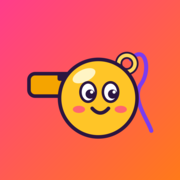
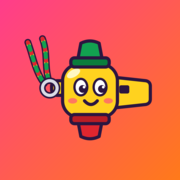
Apito als Dreiton-Sambapfeife
Gelber Körper mit Mundstück, grüne und rote Kammer, Ring mit
geflochtener Kordel in Rot, Grün und Gelb. Icons neu erzeugt.

Changed region(s): [[0.1111, 0.1944, 0.8611, 0.8056]]

diff --git a/src/components/Mascot.svelte b/src/components/Mascot.svelte
@@ -1,5 +1,5 @@
 <script lang="ts">
-  /** Apito, das Maskottchen: eine Sambapfeife mit Gesicht. */
+  /** Apito, das Maskottchen: eine Dreiton-Sambapfeife mit Gesicht. */
   let {
     mood = 'happy',
     size = '4rem',
@@ -7,56 +7,66 @@
   }: { mood?: 'happy' | 'wink' | 'blow'; size?: string; bounce?: boolean } = $props()
 
   const ink = '#2b1640'
+  const yellow = '#ffd21f'
+  const strands = ['M20 49 C 10 36, 8 20, 2 4', 'M25 46 C 20 30, 24 16, 18 0']
 </script>
 
-<svg
-  class="apito"
-  class:bounce
-  style="width: {size}"
-  viewBox="0 0 128 104"
-  role="img"
-  aria-label="Apito"
->
-  <!-- Kordel -->
-  <path d="M106 20 C 120 4, 126 30, 116 44 S 122 78, 126 90" fill="none" stroke="#ff3d8b" stroke-width="4" stroke-linecap="round" />
-  <!-- Ring -->
-  <circle cx="102" cy="24" r="8" fill="none" stroke={ink} stroke-width="7" />
-  <circle cx="102" cy="24" r="8" fill="none" stroke="#ffd95e" stroke-width="3.5" />
-  <!-- Mundstück -->
-  <rect x="6" y="34" width="56" height="22" rx="6" fill="#f5a400" stroke={ink} stroke-width="3.5" />
-  <rect x="34" y="34" width="12" height="7" rx="2" fill={ink} />
-  <!-- Körper -->
-  <circle cx="74" cy="58" r="38" fill="#ffc527" stroke={ink} stroke-width="3.5" />
-  <ellipse cx="60" cy="36" rx="12" ry="6" fill="#fff4c4" transform="rotate(-25 60 36)" />
-
-  <!-- Augen -->
-  {#if mood === 'wink'}
-    <path d="M57 54 q 7 -7 14 0" fill="none" stroke={ink} stroke-width="3.5" stroke-linecap="round" />
-  {:else}
-    <ellipse cx="64" cy="52" rx="7.5" ry="9.5" fill="white" stroke={ink} stroke-width="2.5" />
-    <circle cx="66" cy="54" r="4.5" fill={ink} />
-    <circle cx="67.5" cy="52" r="1.6" fill="white" />
-  {/if}
-  <ellipse cx="86" cy="52" rx="7.5" ry="9.5" fill="white" stroke={ink} stroke-width="2.5" />
-  <circle cx="88" cy="54" r="4.5" fill={ink} />
-  <circle cx="89.5" cy="52" r="1.6" fill="white" />
-
-  <!-- Bäckchen -->
-  <ellipse cx="55" cy="69" rx="6" ry="3.5" fill="#ff3d8b" opacity="0.55" />
-  <ellipse cx="96" cy="69" rx="6" ry="3.5" fill="#ff3d8b" opacity="0.55" />
-
-  <!-- Mund -->
-  {#if mood === 'blow'}
-    <ellipse cx="76" cy="72" rx="4.5" ry="5.5" fill={ink} />
-    <!-- Pfiff aus der Öffnung -->
-    <g fill="none" stroke="#ff3d8b" stroke-width="3.5" stroke-linecap="round" class="sound">
-      <path d="M36 26 q -3 -8 2 -14" />
-      <path d="M45 24 q 0 -10 7 -16" />
-      <path d="M27 28 q -6 -6 -4 -14" />
+<svg class="apito" class:bounce style="width: {size}" viewBox="-2 -4 142 118" role="img" aria-label="Apito">
+  <g stroke-linejoin="round">
+    <!-- geflochtene Kordel in Rot, Grün, Gelb -->
+    <g fill="none">
+      {#each strands as d, i}
+        <path {d} stroke={ink} stroke-width="7.5" stroke-linecap="round" />
+        <path {d} stroke={yellow} stroke-width="4.5" stroke-linecap="round" />
+        <path {d} stroke="#e0262f" stroke-width="4.5" stroke-dasharray="4 8" stroke-dashoffset={i * 2} />
+        <path {d} stroke="#12a150" stroke-width="4.5" stroke-dasharray="4 8" stroke-dashoffset={8 + i * 2} />
+      {/each}
     </g>
-  {:else}
-    <path d="M68 68 q 8 9 16 0" fill="none" stroke={ink} stroke-width="3.5" stroke-linecap="round" />
-  {/if}
+    <!-- Öse und Ring -->
+    <rect x="28" y="46" width="18" height="16" rx="6" fill={yellow} stroke={ink} stroke-width="3.5" />
+    <circle cx="26" cy="54" r="8" fill="none" stroke={ink} stroke-width="7" />
+    <circle cx="26" cy="54" r="8" fill="none" stroke="#d9dce6" stroke-width="3.5" />
+    <!-- grüne und rote Kammer -->
+    <path d="M56 26 L60 5 Q70 0 80 5 L84 26 Z" fill="#12a150" stroke={ink} stroke-width="3.5" />
+    <path d="M56 86 L60 107 Q70 112 80 107 L84 86 Z" fill="#e0262f" stroke={ink} stroke-width="3.5" />
+    <!-- Mundstück mit Fenster -->
+    <path d="M94 42 L131 46 Q136 47 136 52 L136 66 Q136 71 131 72 L94 76 Z" fill={yellow} stroke={ink} stroke-width="3.5" />
+    <rect x="102" y="51" width="11" height="9" rx="2" fill={ink} />
+    <!-- Körper -->
+    <rect x="40" y="28" width="60" height="58" rx="18" fill={yellow} stroke={ink} stroke-width="3.5" />
+    <ellipse cx="52" cy="38" rx="8" ry="4" fill="#fff7c2" transform="rotate(-30 52 38)" />
+    <rect x="49" y="21" width="42" height="10" rx="4" fill="#0b7d3c" stroke={ink} stroke-width="3.5" />
+    <rect x="49" y="83" width="42" height="10" rx="4" fill="#b81d25" stroke={ink} stroke-width="3.5" />
+
+    <!-- Augen -->
+    {#if mood === 'wink'}
+      <path d="M54 54 q 6 -6 12 0" fill="none" stroke={ink} stroke-width="3.5" stroke-linecap="round" />
+    {:else}
+      <ellipse cx="60" cy="53" rx="7" ry="9" fill="white" stroke={ink} stroke-width="2.5" />
+      <circle cx="62" cy="55" r="4.2" fill={ink} />
+      <circle cx="63.5" cy="53" r="1.5" fill="white" />
+    {/if}
+    <ellipse cx="81" cy="53" rx="7" ry="9" fill="white" stroke={ink} stroke-width="2.5" />
+    <circle cx="83" cy="55" r="4.2" fill={ink} />
+    <circle cx="84.5" cy="53" r="1.5" fill="white" />
+
+    <!-- Bäckchen -->
+    <ellipse cx="51" cy="68" rx="5" ry="3" fill="#ff3d8b" opacity="0.6" />
+    <ellipse cx="90" cy="68" rx="5" ry="3" fill="#ff3d8b" opacity="0.6" />
+
+    <!-- Mund -->
+    {#if mood === 'blow'}
+      <ellipse cx="71" cy="70" rx="4" ry="5" fill={ink} />
+      <!-- Pfiff aus dem Fenster -->
+      <g class="sound" fill="none" stroke="#ff3d8b" stroke-width="3.5" stroke-linecap="round">
+        <path d="M108 40 q 2 -8 9 -12" />
+        <path d="M117 44 q 6 -6 14 -6" />
+        <path d="M103 36 q -1 -8 3 -14" />
+      </g>
+    {:else}
+      <path d="M64 68 q 7 8 14 0" fill="none" stroke={ink} stroke-width="3.5" stroke-linecap="round" />
+    {/if}
+  </g>
 </svg>
 
 <style>
